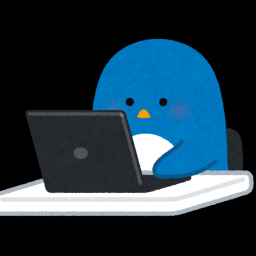
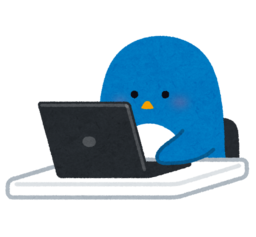
Bump to v0.0.19

diff --git a/CHANGELOG.md b/CHANGELOG.md
@@ -1,5 +1,8 @@
 # Change Log
 
+## [0.0.19] (2021-07-18)
+- Fix icon
+
 ## [0.0.18] (2021-07-18)
 - Bump H2O to v0.1.17
     - Fix a bug in checking manpage availability
